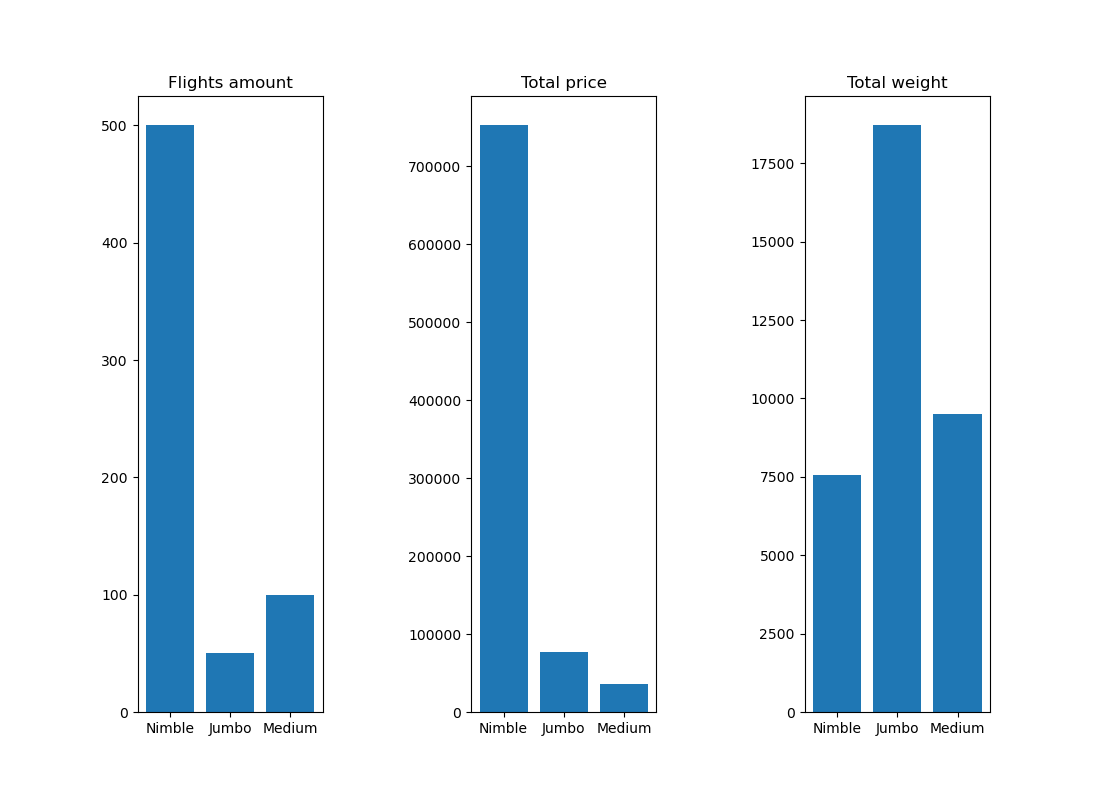
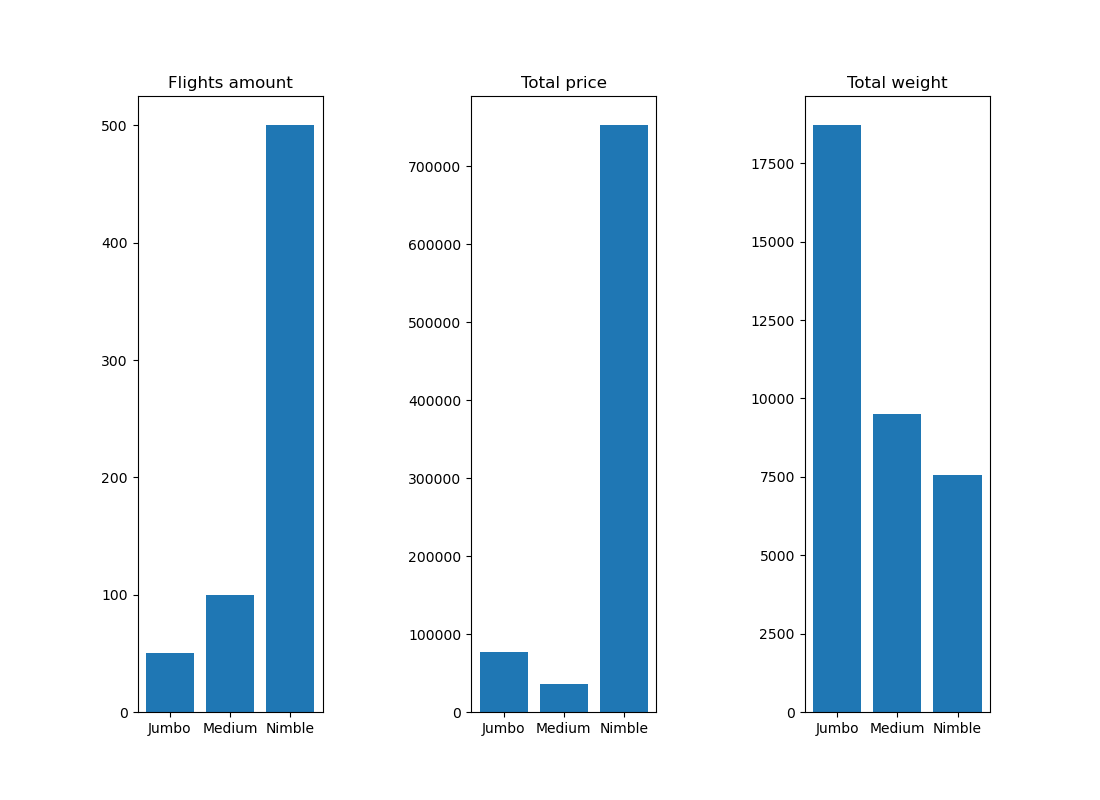
Using groupby instead of loops fix

diff --git a/Pandas/third_part/third.py b/Pandas/third_part/third.py
@@ -1,35 +1,28 @@
 import pandas as pd
 import matplotlib.pyplot as plt
+import numpy as np
 
 df1 = pd.read_excel("students_info.xlsx")
 df1 = df1[df1['login'].notna()]
-gr_f = df1['group_faculty'].unique()
-gr_o = df1['group_out'].unique()
+
+names = [df1['group_faculty'].unique(), np.sort(df1['group_out'].unique())]
 
 df2 = pd.read_html("results_ejudge.html")[0].rename(columns={'User': 'login'})
 
 df = pd.merge(df2, df1, on='login')
 del df1, df2
 
-# print(df)
+f_stat = df.groupby('group_faculty').mean()['Solved'].to_list()
+o_stat = df.groupby('group_out').mean()['Solved'].to_list()
 
-f_stat, o_stat = [], []
-for i in gr_f:
-    f_stat.append([i, df.loc[df['group_faculty'] == i, 'Solved'].sum() / df[df['group_faculty'] == i].shape[0]])
-
-for i in gr_o:
-    o_stat.append([i, df.loc[df['group_out'] == i, 'Solved'].sum() / df[df['group_out'] == i].shape[0]])
-
-o_stat.sort()
 data = [f_stat, o_stat]
-# print(data)
 
 fig, axes = plt.subplots(ncols=2, nrows=1, gridspec_kw={"wspace": 0.8}, figsize=[11, 8])
 
 for i in range(2):
-    axes[i].bar([i for i in range(7)], height=[data[i][k][1] for k in range(7)])
+    axes[i].bar([i for i in range(7)], height=[data[i][k] for k in range(7)])
     axes[i].set_xticks([i for i in range(7)])
-    axes[i].set_xticklabels((k[0] for k in data[i]))
+    axes[i].set_xticklabels((k for k in names[i]))
 
 axes[0].set_title("Фак. группы")
 axes[1].set_title("Инф. группы")

diff --git a/Pandas/second_part/second.py b/Pandas/second_part/second.py
@@ -1,24 +1,25 @@
 import pandas as pd
+import numpy as np
 import matplotlib.pyplot as plt
 
 df = pd.read_csv("flights.csv")
 
-names = df['CARGO'].unique()
+names = np.sort(df['CARGO'].unique())
 
 fig, axes = plt.subplots(ncols=3, nrows=1, gridspec_kw={"wspace": 0.8}, figsize=[11, 8])
 
 data = [[], [], []]
-for p in names:
-    data[0].append([df[df["CARGO"] == p].shape[0], p])
-    data[1].append([int(df[df["CARGO"] == p]['PRICE'].sum()), p])
-    data[2].append([int(df[df["CARGO"] == p]['WEIGHT'].sum()), p])
+
+data[0] = df.groupby('CARGO').count()['Unnamed: 0'].to_list()
+data[1] = df.groupby('CARGO').sum()['PRICE'].to_list()
+data[2] = df.groupby('CARGO').sum()['WEIGHT'].to_list()
 
 del df
 
 for i in range(3):
-    axes[i].bar([0, 1, 2], height=[data[i][k][0] for k in range(3)])
+    axes[i].bar([0, 1, 2], height=[data[i][k] for k in range(3)])
     axes[i].set_xticks([0, 1, 2])
-    axes[i].set_xticklabels((k[1] for k in data[i]))
+    axes[i].set_xticklabels((p for p in names))
 
 axes[0].set_title("Flights amount")
 axes[1].set_title("Total price")
